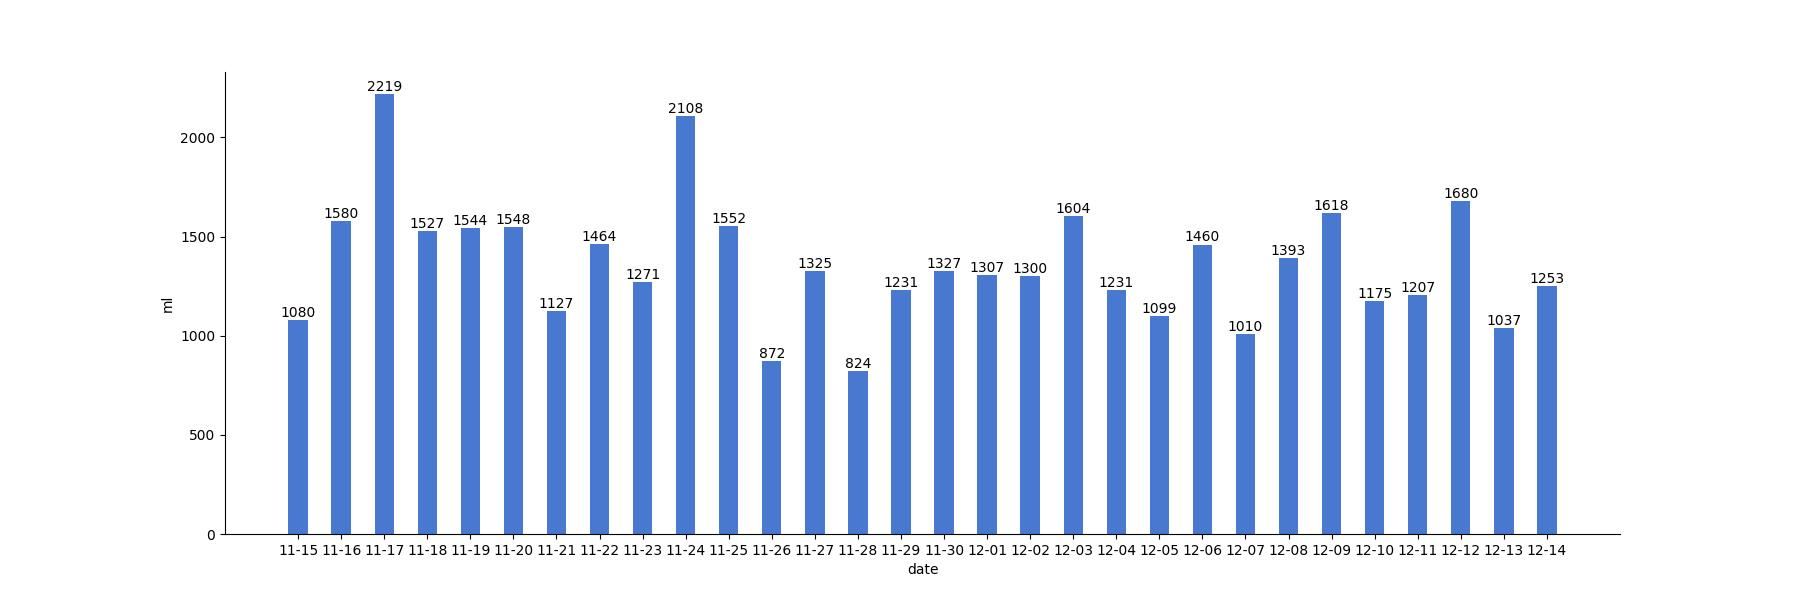
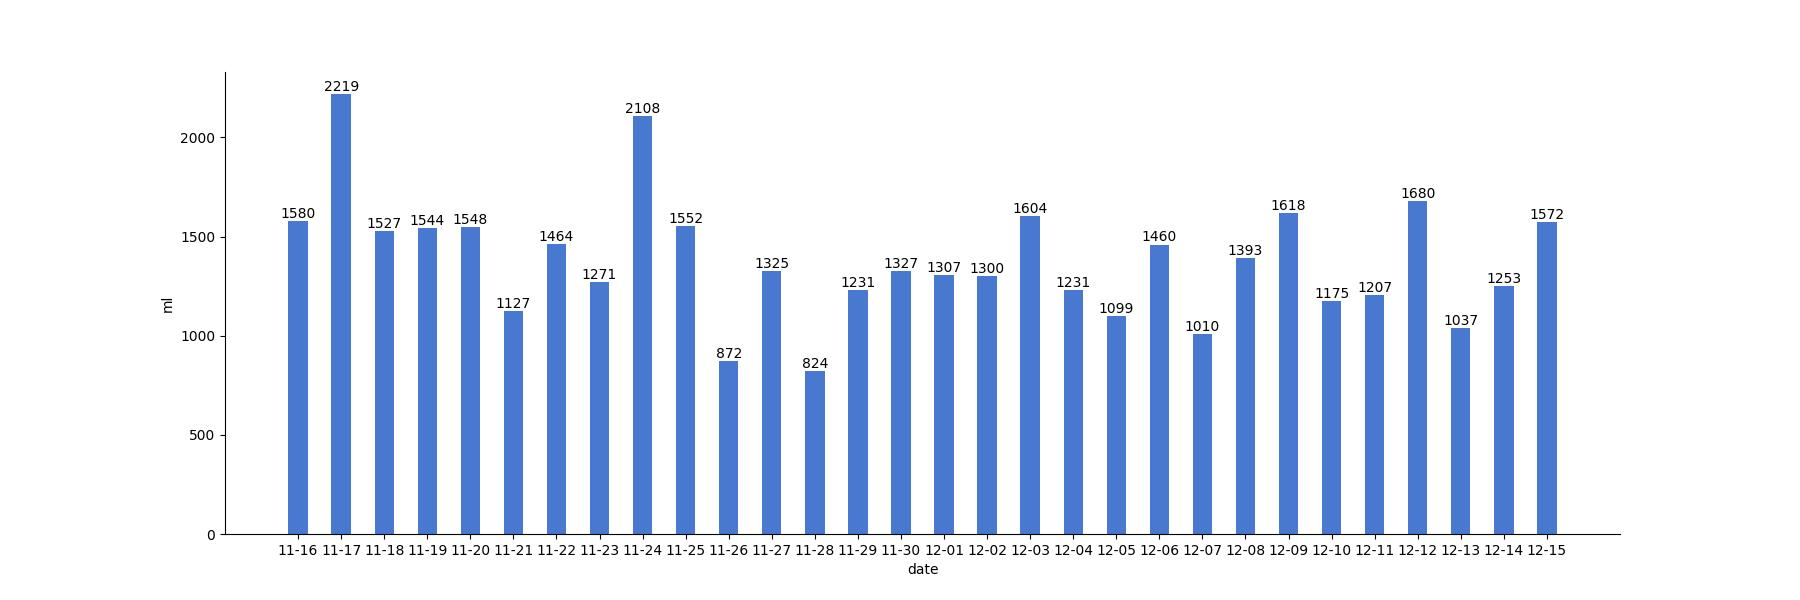
generated readme

diff --git a/README.md b/README.md
@@ -1,17 +1,3 @@
-# 今日饮水数据
-
-<div align=center>
-<img src="today.jpg" style="zoom: 100%;" />
-
-| 今日总饮水量 | 每小时平均饮水量 |
-| :----: | :----: |
-| 1572 | 120 |
-</div>
-
-| 日期 | 00:46:37 | 06:48:28 | 08:00:31 | 09:04:04 | 11:25:22 | 12:24:40 | 13:27:41 | 14:19:43 | 15:24:13 | 17:14:35 | 18:35:08 | 20:10:26 | 20:45:08 | 21:38:30 |
-| :----: | :----: | :----: | :----: | :----: | :----: | :----: | :----: | :----: | :----: | :----: | :----: | :----: | :----: | :----: |
-| 2022-12-15 | 57 | 111 | 101 | 130 | 79 | 200 | 121 | 74 | 102 | 200 | 41 | 91 | 65 | 200 |
-
 # 近30日饮水数据
 
 <div align=center>
@@ -19,8 +5,12 @@
 
 | 总饮水量 | 日均饮水量 |
 | :----: | :----: |
-| 40973 | 1365 |
+| 41465 | 1382 |
 </div>
+
+| 日期 | all | 00:46:37 | 06:48:28 | 08:00:31 | 09:04:04 | 11:25:22 | 12:24:40 | 13:27:41 | 14:19:43 | 15:24:13 | 17:14:35 | 18:35:08 | 20:10:26 | 20:45:08 | 21:38:30 |
+| :----: | :----: | :----: | :----: | :----: | :----: | :----: | :----: | :----: | :----: | :----: | :----: | :----: | :----: | :----: | :----: |
+| 2022-12-15 | 1572 | 57 | 111 | 101 | 130 | 79 | 200 | 121 | 74 | 102 | 200 | 41 | 91 | 65 | 200 |
 
 | 日期 | all | 07:54:59 | 07:59:20 | 09:01:46 | 10:00:44 | 12:20:26 | 13:01:20 | 16:36:36 | 19:27:35 | 20:41:59 | 22:41:20 |
 | :----: | :----: | :----: | :----: | :----: | :----: | :----: | :----: | :----: | :----: | :----: | :----: |
@@ -141,8 +131,4 @@
 | 日期 | all | 08:19:09 | 10:12:30 | 12:20:17 | 15:00:40 | 15:23:08 | 17:09:56 | 19:06:16 | 20:12:03 | 21:32:48 |
 | :----: | :----: | :----: | :----: | :----: | :----: | :----: | :----: | :----: | :----: | :----: |
 | 2022-11-15 | 1080 | 91 | 62 | 200 | 126 | 157 | 86 | 32 | 250 | 76 |
-
-| 日期 | all | 01:01:36 | 01:07:40 | 04:43:20 | 08:01:56 | 08:35:19 | 10:01:34 | 10:10:43 | 11:06:29 | 12:17:29 | 13:13:24 | 14:23:56 | 15:13:27 | 16:33:30 | 17:21:55 | 20:46:16 | 21:23:53 | 22:24:18 | 23:50:20 |
-| :----: | :----: | :----: | :----: | :----: | :----: | :----: | :----: | :----: | :----: | :----: | :----: | :----: | :----: | :----: | :----: | :----: | :----: | :----: | :----: |
-| 2022-11-14 | 2187 | 250 | 71 | 73 | 89 | 200 | 99 | 60 | 84 | 200 | 71 | 99 | 69 | 109 | 200 | 53 | 250 | 132 | 78 |
 
